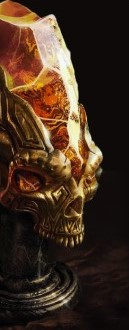
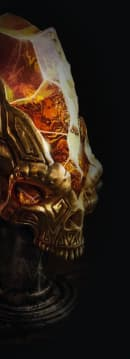
feat: add mobile styles, refactor gulpfile

diff --git a/#src/scss/section.scss b/#src/scss/section.scss
@@ -2,40 +2,46 @@
 
 .subscription {
   height: 100%;
+  padding-left: 40px;
+  padding-top: 50px;
+
+  @media (max-width: 350px) {
+    padding-top: 40px;
+    padding-left: 0;
+  }
 
   .subscription_container {
+    justify-content: end;
     height: 100%;
-    justify-content: space-between;
+    background: url("../img/bg-6.jpg") top left no-repeat;
 
-    .subscription_img {
-      margin-top: 50px;
-      background-image: url("../img/bg-6.jpg");
-      width: 450px;
-      height: 696px;
-      @media (max-width: 350px) {
-        background: url("../img/bg-6-mobile.jpg") no-repeat center;
-        width: 450px;
-        height: 360px;
-      }
+    @media (max-width: 350px) {
+      background: url("../img/bg-6-mobile.jpg") top left no-repeat;
     }
 
     .subscription_content {
-      padding-top: 220px;
+      padding-top: 170px;
       display: flex;
       flex-direction: column;
-      max-width: 654px;
+      max-width: 652px;
       margin-bottom: 150px;
+
       @media (max-width: 350px) {
-        padding-top: 30px;
-        max-width: 190px;
+        padding-top: 24px;
+        max-width: 177px;
+        margin-bottom: 60px;
       }
 
       p {
         display: block;
         font-size: 18px;
         line-height: 1.22;
-        text-align: justify;
         margin: 40px 0;
+        @media (max-width: 350px) {
+          font-size: 14px;
+          line-height: 1.36;
+          margin: 20px 0;
+        }
       }
 
       form {
@@ -44,6 +50,9 @@
         display: flex;
         justify-content: space-between;
         @media (max-width: 350px) {
+          padding-top: 0;
+          min-width: 300px;
+          align-self: end;
           flex-direction: column;
           flex-wrap: wrap;
         }
@@ -52,6 +61,7 @@
           position: relative;
 
           input {
+            display: block;
             width: 368px;
             padding: 28px 22px 12px 22px;
             font-size: 18px;
@@ -69,6 +79,11 @@
               outline: 0;
               opacity: .5;
             }
+
+            @media (max-width: 350px) {
+              width: 100%;
+              margin-bottom: 20px;
+            }
           }
 
           label {
@@ -85,6 +100,7 @@
         }
 
         .btn-form {
+          max-width: 100%;
           padding: 20px 72px;
         }
       }

diff --git a/gulpfile.js b/gulpfile.js
@@ -142,30 +142,20 @@ const clean = () => {
   return del(path.clean)
 }
 
-const build = series(clean, parallel(html, css, js, images, fonts), otf2ttf);
+const build = series(clean, parallel(html, css, js, images, fonts, otf2ttf));
 
-const watchProcess = parallel(build, watchFiles, browserSyncSet);
+const watchProcess = parallel(series(build, browserSyncSet), watchFiles);
 
 
-exports.otf2ttf = otf2ttf;
-exports.fonts = fonts;
-exports.images = images;
-exports.js = js;
-exports.css = css;
-exports.html = html;
-exports.build = build;
-exports.watchProcess = watchProcess;
-exports.default = watchProcess;
-
-/*export () => {
-  changeFontFormat,
-        fonts,
-    images,
-    js,
-    css,
-    html,
-    build,
-    watchProcess,
-default:
+module.exports = {
+  otf2ttf,
+  fonts,
+  images,
+  js,
+  css,
+  html,
+  build,
+  watchProcess,
+  default:
   watchProcess
-}*/
+}

diff --git a/#src/scss/footer.scss b/#src/scss/footer.scss
@@ -4,7 +4,7 @@ footer {
   .footer_container {
     flex-direction: column;
     flex-wrap: wrap;
-    min-height: 233px;
+    max-height: 233px;
 
     .footer_nav {
       display: flex;
@@ -97,7 +97,7 @@ footer {
           text-transform: uppercase;
           padding: 22px 7px 0 7px;
 
-          :before {
+          ::before {
             content: "";
             position: absolute;
             background: #ffffff;
@@ -111,7 +111,7 @@ footer {
           &:hover {
             opacity: 0.5;
 
-            &:last-child:before {
+            &:last-child::before {
               display: none;
             }
           }

diff --git a/#src/_section.html b/#src/_section.html
@@ -1,6 +1,5 @@
 <section class="subscription" id="subscription">
   <div class="container subscription_container">
-    <div class="subscription_img"></div>
     <div class="subscription_content">
       <h3 class="sub-title">Want to stay in touch?</h3>
       <h2 class="title">Newsletter subscribe </h2>

diff --git a/#src/index.html b/#src/index.html
@@ -7,7 +7,7 @@
 </head>
 <body>
 @@include('_section.html')
-<!--@@include('_footer.html')-->
+@@include('_footer.html')
 <script src="js/script.min.js"></script>
 </body>
 </html>

diff --git a/#src/scss/style.scss b/#src/scss/style.scss
@@ -55,6 +55,9 @@ button {
   max-height: 900px;
   margin: 0 auto;
   padding: 0 120px;
+  @media (max-width: 350px){
+    padding: 0 15px;
+  }
 }
 
 .title {
